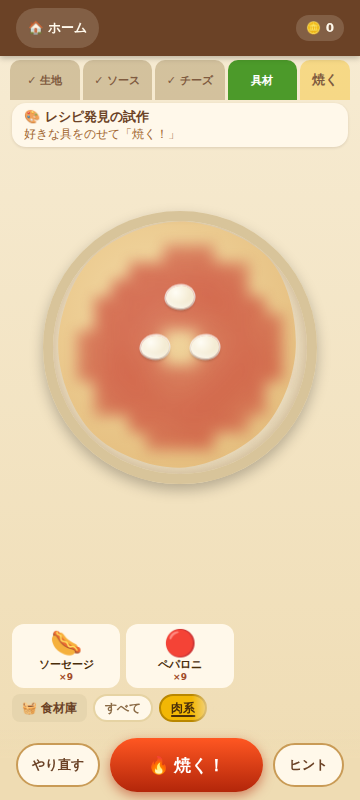
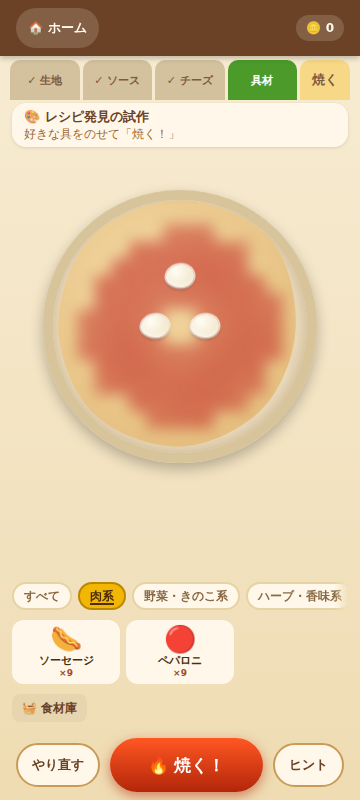
Family row: re-measure on the short-height media query, read the stage afresh, never keep a stale placement (#399, WebKit)
Claude-Session: https://claude.ai/code/session_013nwxox5oPsKiasG8M112jY

Changed region(s): [[0.1222, 0.2188, 0.8861, 0.625], [0.0306, 0.7188, 0.9472, 0.9062]]

diff --git a/src/screens/GameScreen.tsx b/src/screens/GameScreen.tsx
@@ -377,12 +377,14 @@ export function GameScreen({
   const familyRowReserved = dockReserve.familyRow;
   const inPrepare = state.phase === "PREPARE";
   useLayoutEffect(() => {
-    const stage = screenRef.current?.querySelector<HTMLElement>(".pizza-stage");
-    if (!stage || !familyRowReserved) {
-      setFamilyAbove(false);
-      return;
-    }
+    // Read the stage afresh each time (it is a different element if the screen was ever re-keyed) and never keep a stale
+    // placement: without a reserved row there is nothing above.
     const measure = () => {
+      const stage = screenRef.current?.querySelector<HTMLElement>(".pizza-stage");
+      if (!stage || !familyRowReserved) {
+        setFamilyAbove(false);
+        return;
+      }
       const style = getComputedStyle(stage);
       const contentHeight = stage.clientHeight - parseFloat(style.paddingTop) - parseFloat(style.paddingBottom);
       // The pizza's cap, read from the zero-size probe App.css sizes with the very `--pizza-cap-*` the dough uses.
@@ -392,7 +394,8 @@ export function GameScreen({
     };
     // A change of layout takes a render and a layout pass to show in the stage, and the engines deliver resize / observer
     // notifications at different moments: so after every trigger the stage is read again over the next few frames, until
-    // the placement has stopped changing. The rule is a fixed point, so this only ever confirms it.
+    // the placement has stopped changing. The rule is a fixed point, so this only ever confirms it. The short-height query
+    // is listened to directly: it is the one input that flips the layout without the stage's own size being the cause.
     let frame = 0;
     let settleLeft = 0;
     const settle = () => {
@@ -406,12 +409,16 @@ export function GameScreen({
       settle();
     };
     trigger();
-    const observer = typeof ResizeObserver === "function" ? new ResizeObserver(trigger) : null;
-    observer?.observe(stage);
+    const stage = screenRef.current?.querySelector<HTMLElement>(".pizza-stage");
+    const observer = typeof ResizeObserver === "function" && stage ? new ResizeObserver(trigger) : null;
+    if (stage) observer?.observe(stage);
+    const short = typeof window.matchMedia === "function" ? window.matchMedia(SHORT_HEIGHT_QUERY) : null;
+    short?.addEventListener?.("change", trigger);
     window.addEventListener("resize", trigger);
     return () => {
       cancelAnimationFrame(frame);
       observer?.disconnect();
+      short?.removeEventListener?.("change", trigger);
       window.removeEventListener("resize", trigger);
     };
   }, [familyRowReserved, inPrepare]);
